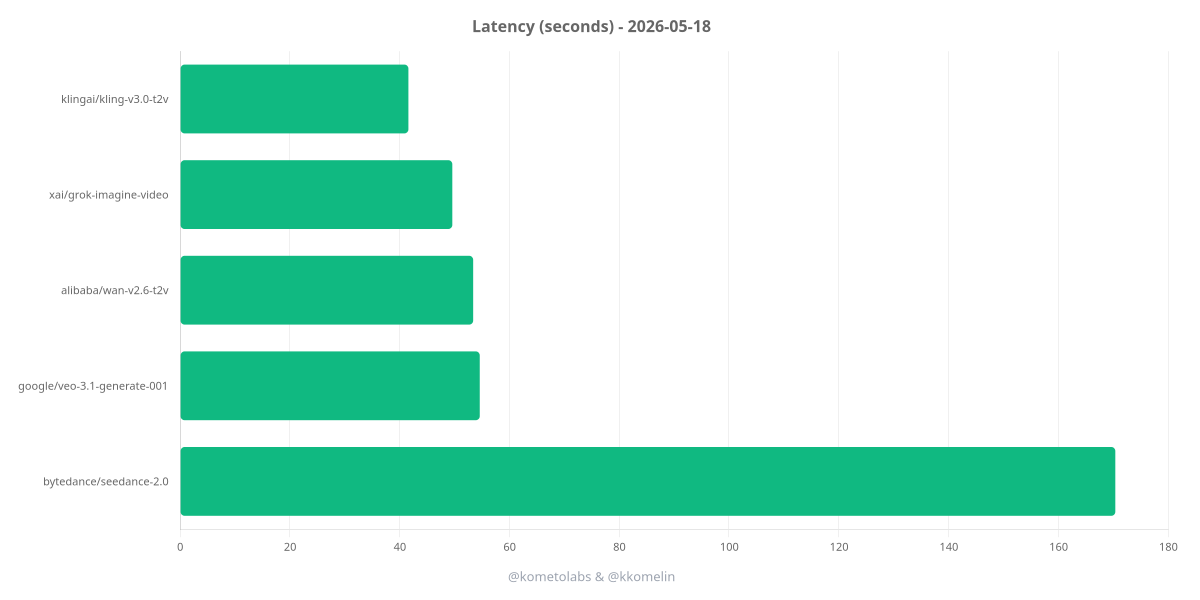
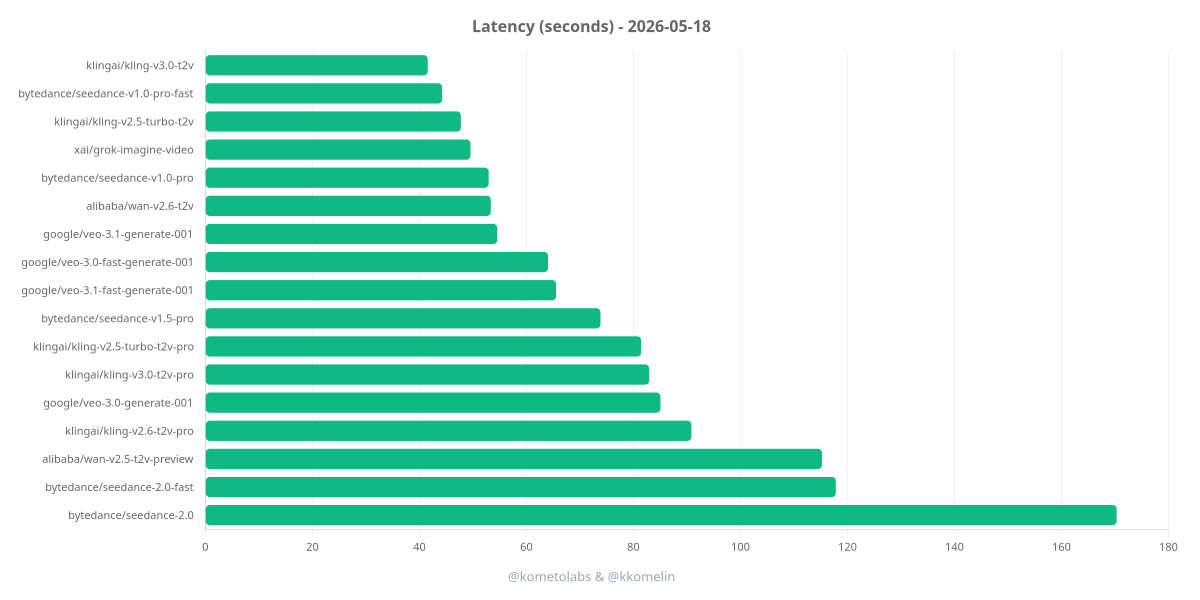
Fix Kling sound support and refresh benchmark outputs
Kling v2.5 (both modes) and Kling v2.6 std reject sound:'on' - audio
is only supported on Kling v2.6 pro and Kling v3.0 (either mode).
Remove the unsupported sound flags from the affected entries and
document the actual support matrix in MODEL-QUIRKS.md.

Includes refreshed cache.json, report.md, charts, and the new mp4s
from the in-progress benchmark run.

Changed region(s): [[0.0, 0.09, 0.9558, 0.93]]

diff --git a/src/models.ts b/src/models.ts
@@ -132,32 +132,34 @@ const models: ModelConfig[] = [
     id: 'klingai/kling-v2.5-turbo-t2v',
     name: 'Kling v2.5 Turbo T2V (std)',
     provider: 'KlingAI',
-    notes: 'Standard mode; v2.x requires duration in {5,10}; rejects `resolution`',
+    notes: 'Standard mode; v2.x requires duration in {5,10}; rejects `resolution`; audio not supported',
     enabled: true,
     duration: 5,
     skipResolution: true,
-    providerOptions: { klingai: { mode: 'std', sound: 'on', pollTimeoutMs: 900_000 } },
+    // v2.5 doesn't support `sound`. The gateway rejects sound:'on' for this model.
+    providerOptions: { klingai: { mode: 'std', pollTimeoutMs: 900_000 } },
   },
   {
     id: 'klingai/kling-v2.5-turbo-t2v-pro',
     gatewayId: 'klingai/kling-v2.5-turbo-t2v',
     name: 'Kling v2.5 Turbo T2V (pro)',
     provider: 'KlingAI',
-    notes: 'Pro mode; v2.x requires duration in {5,10}; rejects `resolution`',
+    notes: 'Pro mode; v2.x requires duration in {5,10}; rejects `resolution`; audio not supported',
     enabled: true,
     duration: 5,
     skipResolution: true,
-    providerOptions: { klingai: { mode: 'pro', sound: 'on', pollTimeoutMs: 900_000 } },
+    providerOptions: { klingai: { mode: 'pro', pollTimeoutMs: 900_000 } },
   },
   {
     id: 'klingai/kling-v2.6-t2v',
     name: 'Kling v2.6 T2V (std)',
     provider: 'KlingAI',
-    notes: 'Standard mode; v2.x requires duration in {5,10}; rejects `resolution`',
+    notes: 'Standard mode; v2.x requires duration in {5,10}; rejects `resolution`; std rejects sound:on (pro only)',
     enabled: true,
     duration: 5,
     skipResolution: true,
-    providerOptions: { klingai: { mode: 'std', sound: 'on', pollTimeoutMs: 900_000 } },
+    // v2.6 std rejects sound:'on'; audio is pro-only on v2.6.
+    providerOptions: { klingai: { mode: 'std', pollTimeoutMs: 900_000 } },
   },
   {
     id: 'klingai/kling-v2.6-t2v-pro',

diff --git a/results/report.md b/results/report.md
@@ -1,17 +1,34 @@
 # AI Video Model Benchmark
 
-**Last updated:** 2026-05-18T14:34:48.099Z  
-**Prompt:** A golden retriever puppy chasing a butterfly through a sunflower field at golden hour, cinematic shallow depth of field, soft warm light, slow camera dolly forward.
+**Last updated:** 2026-05-18T15:18:12.143Z  
+**Prompt:** A golden retriever puppy chasing a butterfly through a sunflower field at golden hour, cinematic shallow depth of field, soft warm light, slow camera dolly forward.  
+**Duration:** 4-5s  
+**Resolution:** 1280x720, 720p  
+**Aspect ratio:** 16:9
 
 | Model | Cost | Latency | Generated | Video |
 | ----- | ---- | ------- | --------- | ----- |
+| `alibaba/wan-v2.5-t2v-preview` | $0.5 | 115.3s | 2026-05-18 | [video](./videos/alibaba-wan-v2.5-t2v-preview.mp4) |
 | `alibaba/wan-v2.6-t2v` | $0.5 | 53.4s | 2026-05-17 | [video](./videos/alibaba-wan-v2.6-t2v.mp4) |
+| `bytedance/seedance-v1.0-lite-t2v` | - | FAILED | 2026-05-18 | - |
+| `bytedance/seedance-v1.0-pro` | $0.2575 | 53.0s | 2026-05-18 | [video](./videos/bytedance-seedance-v1.0-pro.mp4) |
+| `bytedance/seedance-v1.0-pro-fast` | $0.103 | 44.3s | 2026-05-18 | [video](./videos/bytedance-seedance-v1.0-pro-fast.mp4) |
+| `bytedance/seedance-v1.5-pro` | $0.1295 | 73.9s | 2026-05-18 | [video](./videos/bytedance-seedance-v1.5-pro.mp4) |
 | `bytedance/seedance-2.0` | $0.7623 | 170.4s | 2026-05-17 | [video](./videos/bytedance-seedance-2.0.mp4) |
+| `bytedance/seedance-2.0-fast` | $0.60984 | 117.9s | 2026-05-18 | [video](./videos/bytedance-seedance-2.0-fast.mp4) |
+| `google/veo-3.0-generate-001` | $1.6 | 85.1s | 2026-05-18 | [video](./videos/google-veo-3.0-generate-001.mp4) |
+| `google/veo-3.0-fast-generate-001` | $0.6 | 64.1s | 2026-05-18 | [video](./videos/google-veo-3.0-fast-generate-001.mp4) |
 | `google/veo-3.1-generate-001` | $1.6 | 54.6s | 2026-05-17 | [video](./videos/google-veo-3.1-generate-001.mp4) |
+| `google/veo-3.1-fast-generate-001` | $0.6 | 65.6s | 2026-05-18 | [video](./videos/google-veo-3.1-fast-generate-001.mp4) |
+| `klingai/kling-v2.5-turbo-t2v` | $0.211722 | 47.8s | 2026-05-18 | [video](./videos/klingai-kling-v2.5-turbo-t2v.mp4) |
+| `klingai/kling-v2.5-turbo-t2v-pro` | $0.35287 | 81.5s | 2026-05-18 | [video](./videos/klingai-kling-v2.5-turbo-t2v-pro.mp4) |
+| `klingai/kling-v2.6-t2v` | - | FAILED | 2026-05-18 | - |
+| `klingai/kling-v2.6-t2v-pro` | $0.70574 | 90.9s | 2026-05-18 | [video](./videos/klingai-kling-v2.6-t2v-pro.mp4) |
 | `klingai/kling-v3.0-t2v` | $1.270332 | 41.6s | 2026-05-17 | [video](./videos/klingai-kling-v3.0-t2v.mp4) |
+| `klingai/kling-v3.0-t2v-pro` | $1.693776 | 83.0s | 2026-05-18 | [video](./videos/klingai-kling-v3.0-t2v-pro.mp4) |
 | `xai/grok-imagine-video` | $0.35 | 49.6s | 2026-05-17 | [video](./videos/xai-grok-imagine-video.mp4) |
 
-**Total spent:** $4.482632
+**Total spent:** $11.84658
 
 _Latency is wall time per video, measured by the benchmark script._  
 _Cost is returned by the gateway, so it should be accurate._  

diff --git a/MODEL-QUIRKS.md b/MODEL-QUIRKS.md
@@ -61,9 +61,19 @@ Applies to all Kling variants: `klingai/kling-v2.5-turbo-t2v`, `klingai/kling-v2
 
 ---
 
-**Quirk:** Audio is opt-in via `providerOptions.klingai.sound` (a string, `'on'` or `'off'`, not a boolean). Defaults to `'off'`, so output is silent unless explicitly enabled. Requires v2.6+ and adds ~50% to the per-second cost (v3.0 std: $0.168/s → $0.252/s). The internal gateway pricing JSON uses `audio: true/false`, but the SDK field is `sound`.
+**Quirk:** Audio (`providerOptions.klingai.sound`, a string `'on'` or `'off'`, not a boolean) is only supported on a subset of Kling models. Setting `sound: 'on'` elsewhere returns `model/mode(...) is not supported with sound on ...`.
 
-**Adaptation:** `providerOptions: { klingai: { sound: 'on' } }` on each Kling entry.
+Support matrix:
+
+| Model               | std `sound:'on'` | pro `sound:'on'` |
+| ------------------- | ---------------- | ---------------- |
+| Kling v2.5 Turbo    | unsupported      | unsupported      |
+| Kling v2.6          | unsupported      | supported        |
+| Kling v3.0          | supported        | supported        |
+
+Where supported, audio adds ~50% to the per-second cost (v3.0 std: $0.168/s → $0.252/s). The internal gateway pricing JSON uses `audio: true/false`, but the SDK field is `sound`.
+
+**Adaptation:** Set `providerOptions: { klingai: { sound: 'on' } }` only on Kling v2.6 pro and Kling v3.0 (either mode). Omit `sound` entirely on the other Kling entries.
 
 ---
 